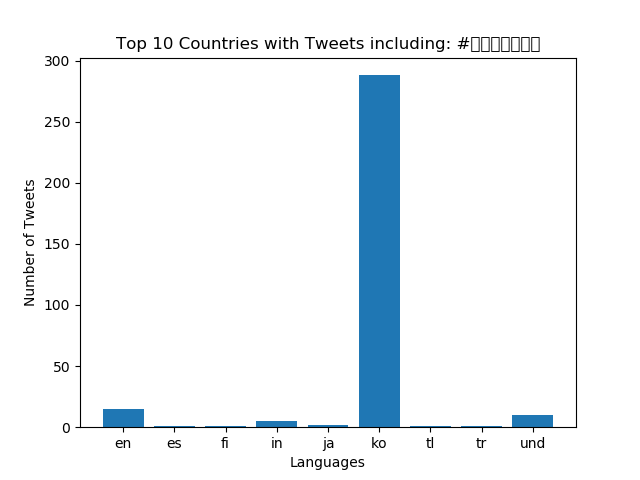
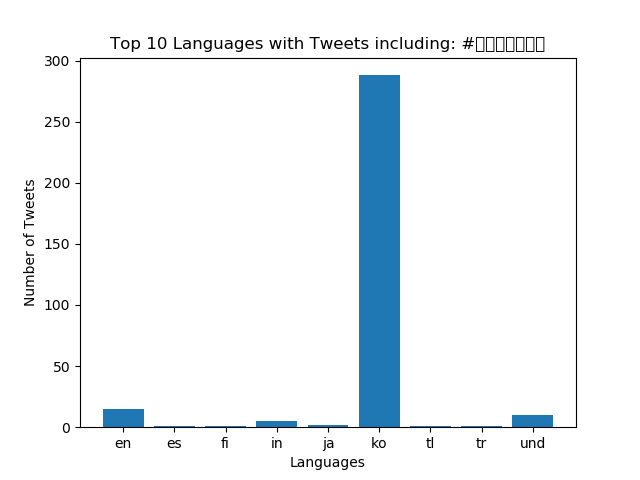
new pictures

Changed region(s): [[0.1875, 0.0625, 0.8438, 0.125]]

diff --git a/src/visualize.py b/src/visualize.py
@@ -34,10 +34,13 @@ items = sorted(counts[args.key].items(), key=lambda item: (item[1],item[0]), rev
 top_ten = sorted(items[:10], key=lambda x: x[1])
 countries = []
 values = []
+print(top_ten)
 for country, value in top_ten:
     countries.append(country)
     values.append(value)
 
+print(countries)
+print(values)
 #print(top_ten)
 plt.bar(countries, values)
 
@@ -53,7 +56,7 @@ if args.input_path == "reduced.country":
 elif args.input_path == "reduced.lang":
     plt.xlabel("Languages")
     plt.ylabel("Number of Tweets")
-    plt.title("Top 10 Countries with Tweets including: " + str(args.key))
+    plt.title("Top 10 Languages with Tweets including: " + str(args.key))
     if args.key == '#coronavirus':
         plt.savefig('LanguageCoronavirus.png')
     elif args.key == '#코로나바이러스':
